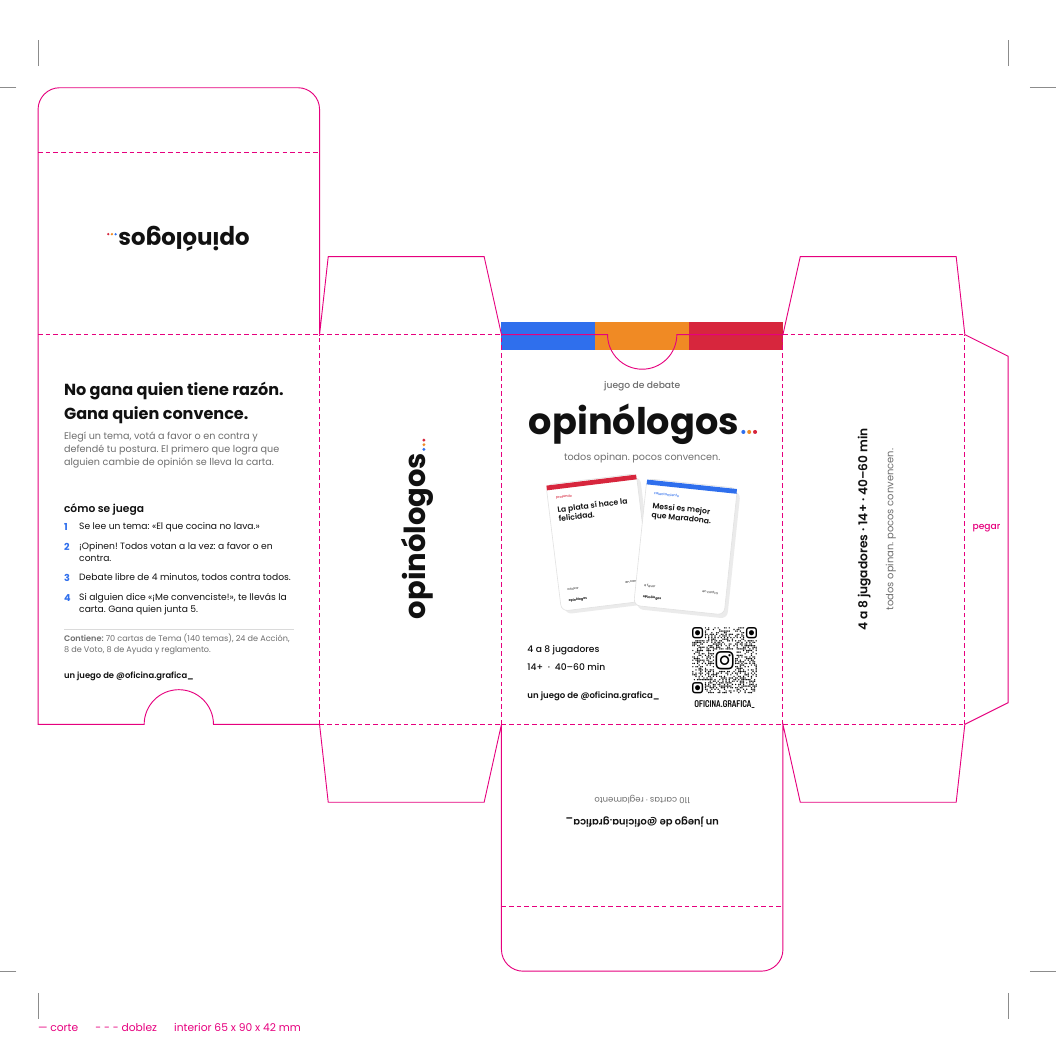
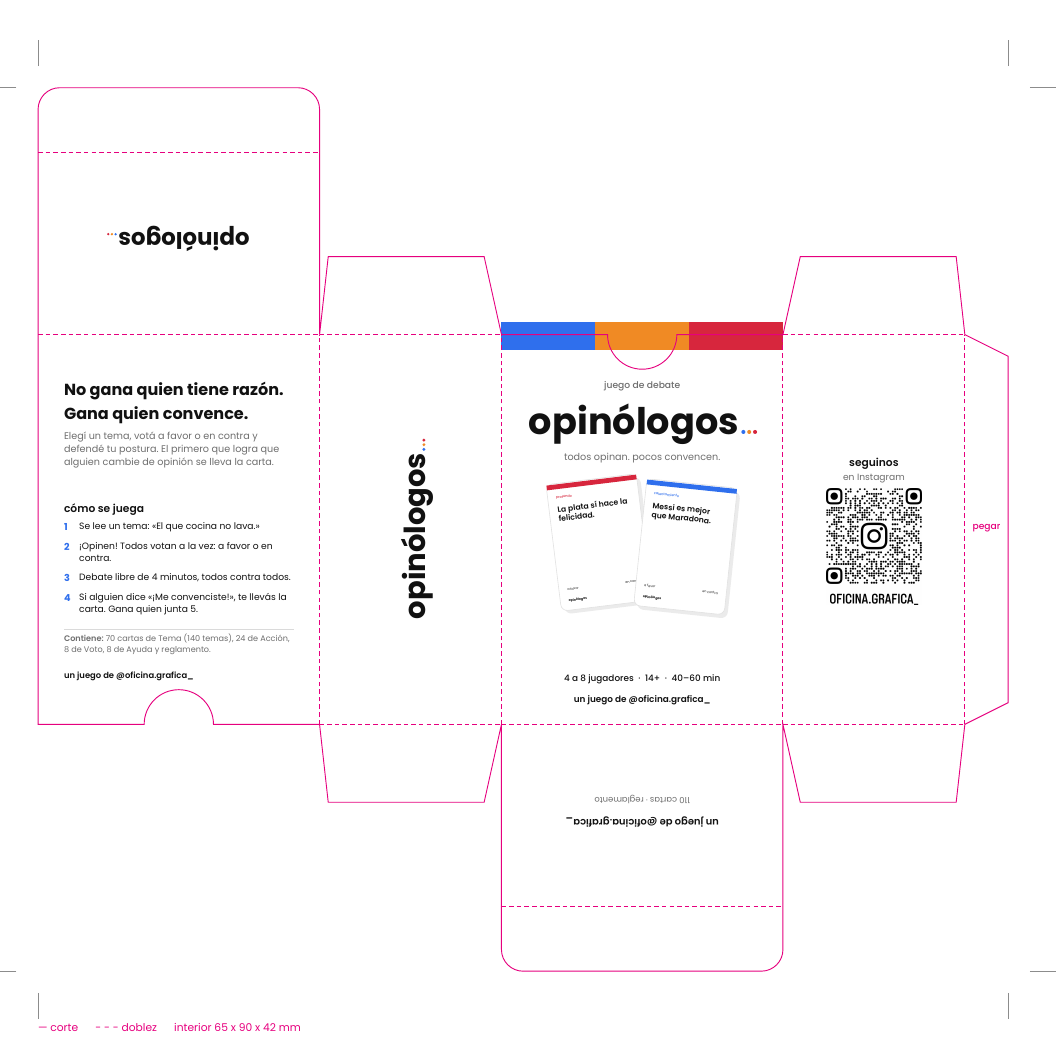
Caja: QR de Instagram en un lateral, frente sin QR
Claude-Session: https://claude.ai/code/session_01FGxw9aPArw9pn3yxwBbtRR

Changed region(s): [[0.7783, 0.4, 0.8717, 0.5846], [0.4981, 0.5846, 0.716, 0.6769]]

diff --git a/generar_caja.py b/generar_caja.py
@@ -24,7 +24,7 @@ import generar_pdf as cartas  # fuentes, colores y nombre
 SALIDA = "opinologos-caja.pdf"
 AUTORIA = "un juego de @oficina.grafica_"
 QR_IMAGEN = os.path.join(os.path.dirname(os.path.abspath(__file__)), "imagenes", "qr-instagram.png")
-QR_ANCHO = 15 * mm  # 15 mm se escanea bien con cualquier celular
+QR_ANCHO = 22 * mm  # en el lateral entra más grande: se escanea fácil
 
 # Medidas interiores (mm): 63 x 88 de carta + holgura; profundidad para 110 cartas + librito.
 ANCHO, ALTO, PROF = 65 * mm, 90 * mm, 42 * mm
@@ -214,17 +214,11 @@ def frente(cv):
     # Dos cartas de ejemplo: una de Calentamiento y una de Profundo.
     mini_carta(cv, x + W / 2 - 10 * mm, y + 42 * mm, 7, 2, "La plata sí hace la felicidad.", escala=0.7)
     mini_carta(cv, x + W / 2 + 10 * mm, y + 41 * mm, -6, 0, "Messi es mejor que Maradona.", escala=0.7)
-    # Pie: ficha y autoría a la izquierda, QR de Instagram (imagen oficial) a la derecha.
-    m = 6 * mm
-    ancho_img, alto_img = 1393, 1700
-    qr_alto = QR_ANCHO * alto_img / ancho_img
-    cv.drawImage(QR_IMAGEN, x + W - m - QR_ANCHO, y + 4 * mm, QR_ANCHO, qr_alto)
     cv.setFillColor(TINTA)
-    cv.setFont("PopM", 6)
-    cv.drawString(x + m, y + 16.5 * mm, "4 a 8 jugadores")
-    cv.drawString(x + m, y + 12.5 * mm, "14+  ·  40–60 min")
-    cv.setFont("PopSB", 5.6)
-    cv.drawString(x + m, y + 6 * mm, AUTORIA)
+    cv.setFont("PopM", 5.8)
+    cv.drawCentredString(x + W / 2, y + 10 * mm, "4 a 8 jugadores  ·  14+  ·  40–60 min")
+    cv.setFont("PopSB", 5.8)
+    cv.drawCentredString(x + W / 2, y + 5 * mm, AUTORIA)
 
 
 def dorso_caja(cv):
@@ -265,14 +259,17 @@ def laterales(cv):
     cy = (YB + YT) / 2
     girado(cv, X_LAT1 + D / 2, cy, 90, lambda: logo(cv, 0, -3.5 * mm, 19))
 
-    def ficha():
-        cv.setFillColor(TINTA)
-        cv.setFont("PopSB", 8)
-        cv.drawCentredString(0, 1.5 * mm, "4 a 8 jugadores · 14+ · 40–60 min")
-        cv.setFillColor(GRIS)
-        cv.setFont("PopR", 6.5)
-        cv.drawCentredString(0, -4.5 * mm, cartas.LEMA)
-    girado(cv, X_LAT2 + D / 2, cy, 90, ficha)
+    # Segundo lateral: QR oficial de Instagram, derecho para que se escanee fácil.
+    ancho_img, alto_img = 1393, 1700
+    qr_alto = QR_ANCHO * alto_img / ancho_img
+    qx, qy = X_LAT2 + (D - QR_ANCHO) / 2, cy - qr_alto / 2 - 4 * mm
+    cv.drawImage(QR_IMAGEN, qx, qy, QR_ANCHO, qr_alto)
+    cv.setFillColor(TINTA)
+    cv.setFont("PopSB", 7)
+    cv.drawCentredString(X_LAT2 + D / 2, qy + qr_alto + 5 * mm, "seguinos")
+    cv.setFillColor(GRIS)
+    cv.setFont("PopR", 6)
+    cv.drawCentredString(X_LAT2 + D / 2, qy + qr_alto + 1.8 * mm, "en Instagram")
 
 
 def tapas(cv):
